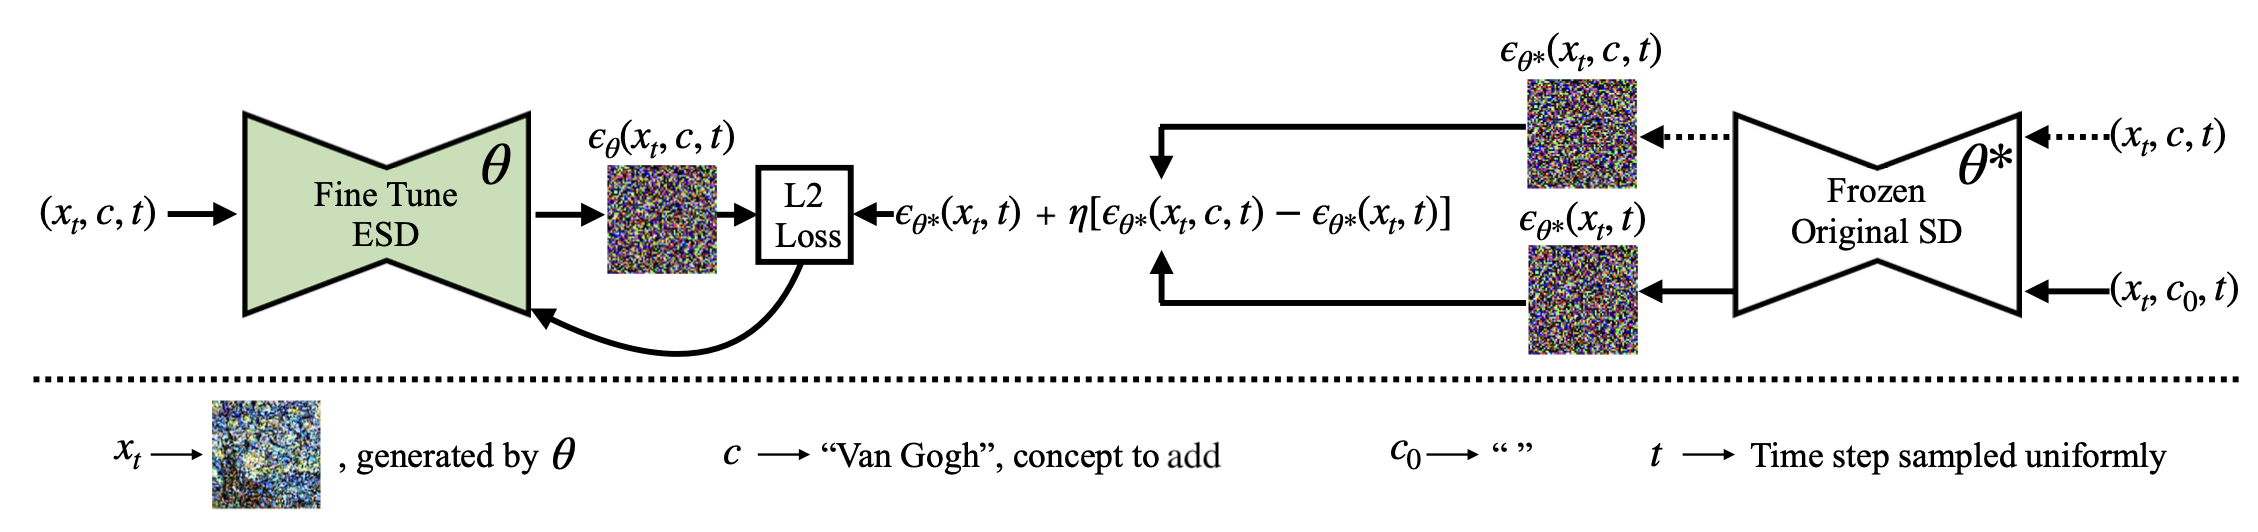
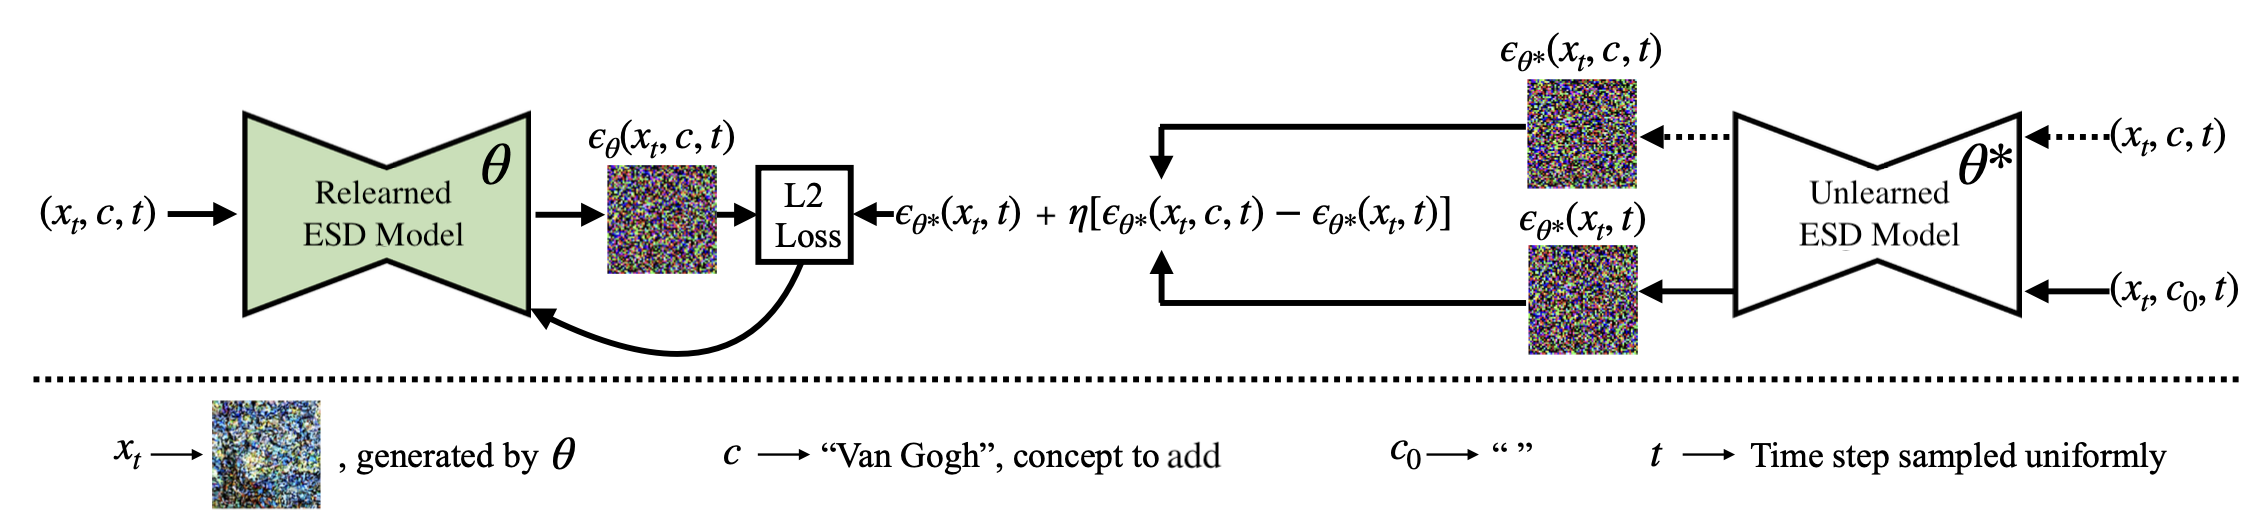
elaborated on relearning and highlight area to expand

Changed region(s): [[0.124, 0.3308, 0.217, 0.4812], [0.775, 0.3308, 0.868, 0.4812]]

diff --git a/index.html b/index.html
@@ -266,6 +266,10 @@
             of erasing object on the model through inference with multiple
             prompts with related to the concept being erased.
           </p>
+          <b
+            >TALK ABOUT IF THE ARCHITETURE IS THE SAME.TALK ABOUT THE NUMBER OF
+            PARAMETERS IN EACH.</b
+          >
           <div class="text-center">
             <img
               src="images/Inference_code.png"
@@ -295,6 +299,31 @@
               style="width: 850px"
             />
           </div>
+          <ul>
+            <li>
+              To test this theory out, we will initialize our forzen model to be
+              the model that had the concept erased.
+            </li>
+            <li>
+              From this forzen model we will grab the predicted noise of the
+              desired concept
+              <img
+                src="images/math/RelearnVanNoGeneral.png"
+                alt="External Image"
+                style="width: 200px"
+              />.
+            </li>
+            <li>
+              The predicted noise of the concept will be combined with the
+              general noise
+              <img
+                src="images/math/RelearnVanWithGeneral.png"
+                alt="External Image"
+                style="width: 300px"
+              />. This is will represent the goal the model is trying to reach.
+            </li>
+          </ul>
+
           <h2>Results</h2>
           <h3>Effect on Smaller Models</h3>
           <p>
@@ -428,10 +457,14 @@
           </div>
         </div>
       </div>
+      <h3>Conclusion</h3>
+      <p>
+        Summarize your conclusions, including any implications for applications
+        or impacts on society, or ideas for future work.
+      </p>
       <div class="row">
         <div class="col">
           <h3>References</h3>
-
           <p>
             <a name="gandikota-2023">[1]</a>
             <a href="https://arxiv.org/pdf/2303.07345.pdf">
